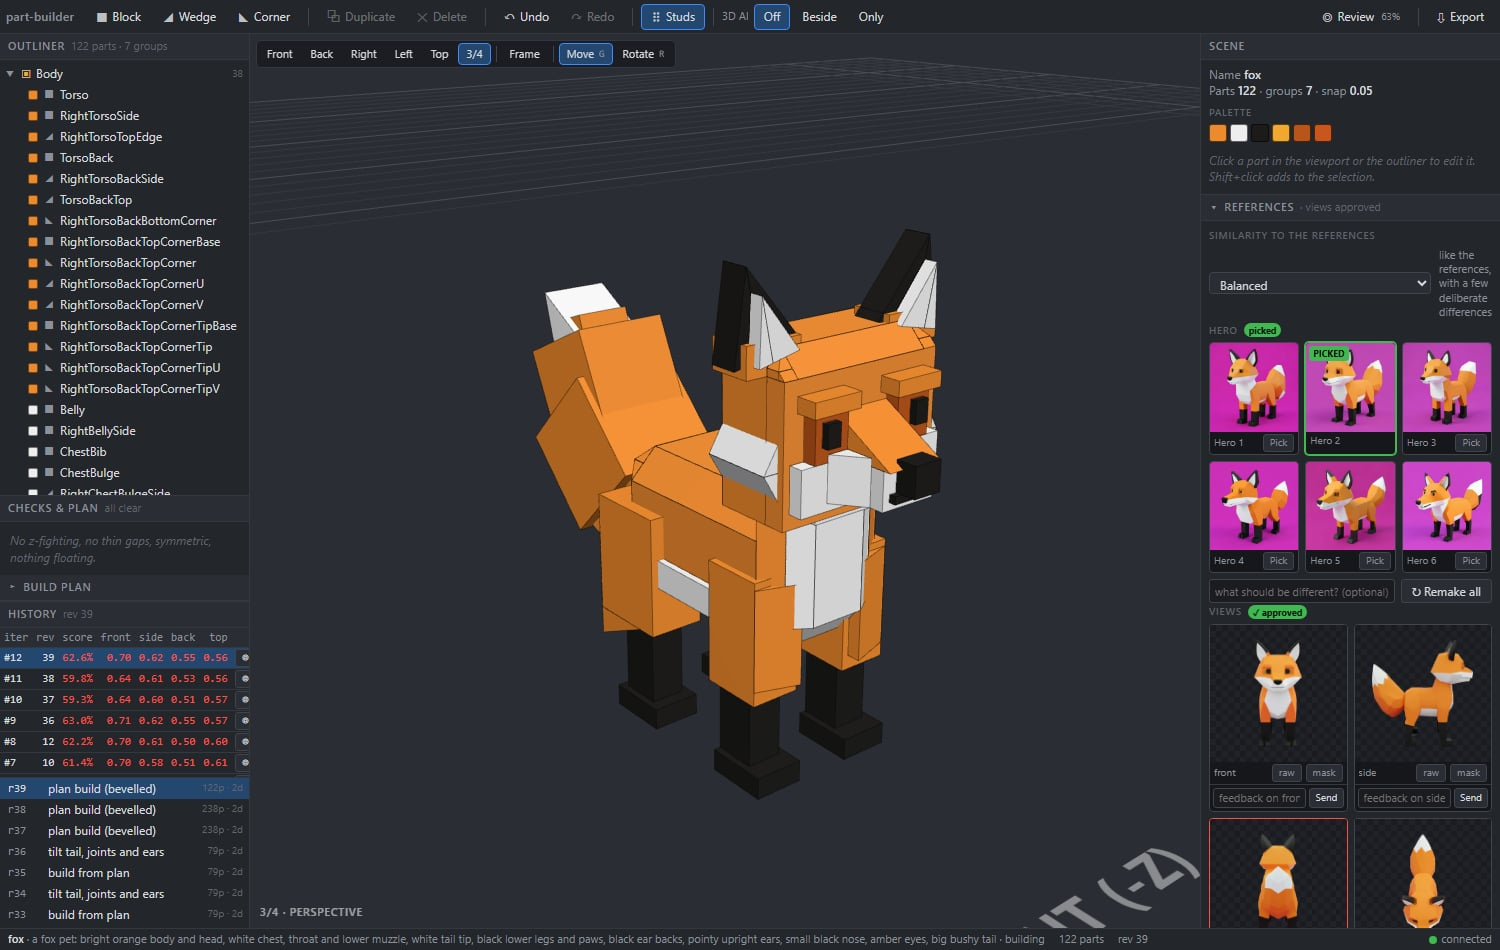
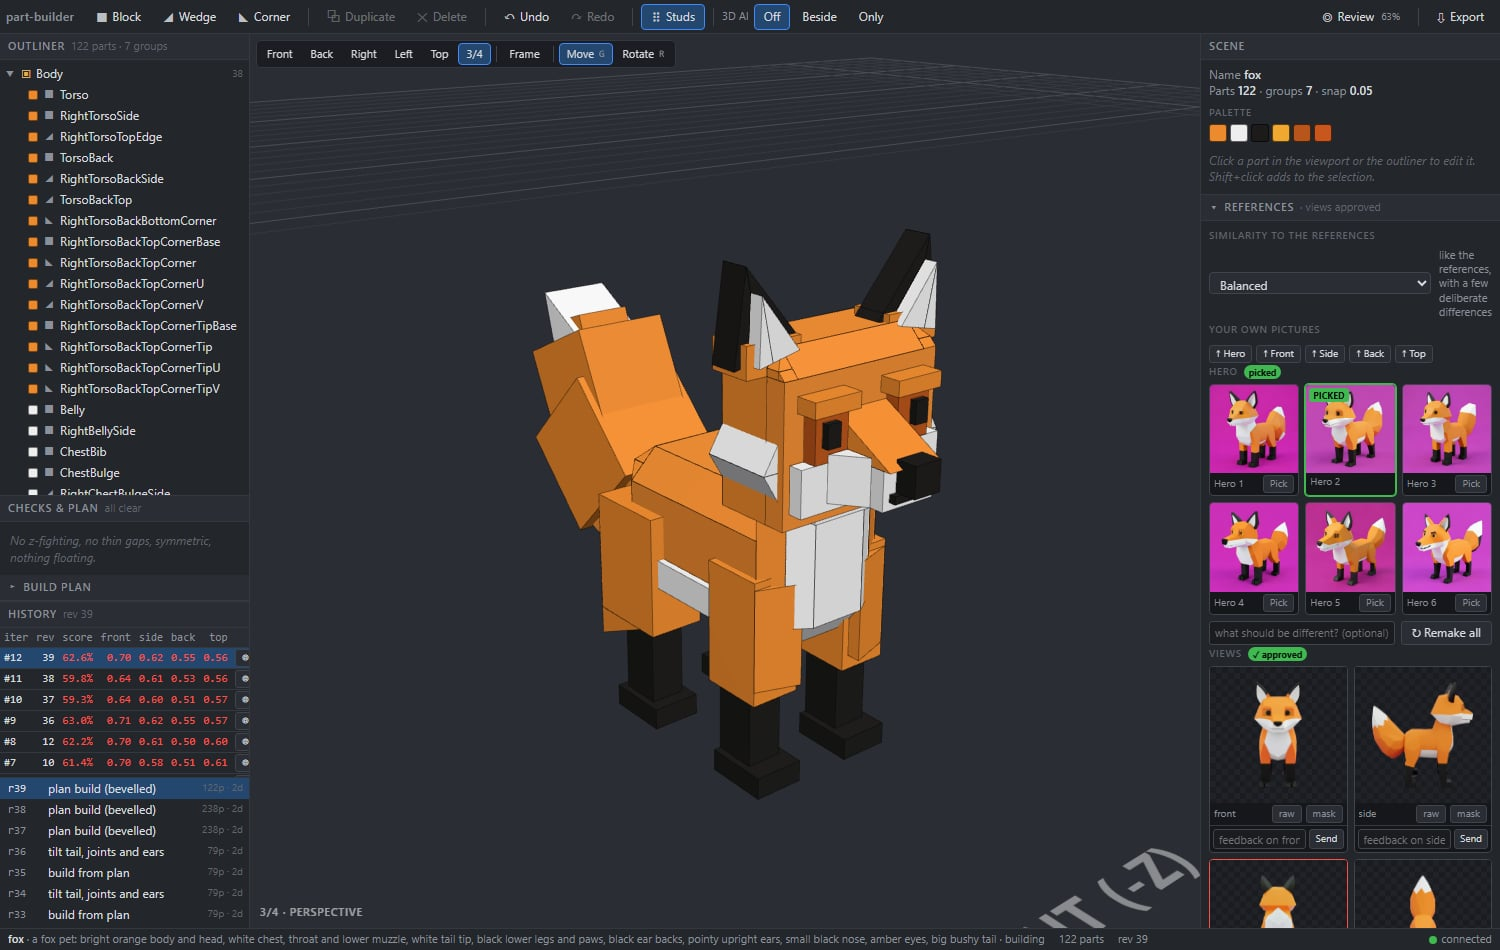
Update screenshots

Changed region(s): [[0.7973, 0.3358, 1.0, 0.9768]]

diff --git a/README.md b/README.md
@@ -12,7 +12,7 @@ corner wedges), rigged and ready for Studio.
    matches. You watch it happen in the editor.
 4. You get a rigged `.rbxmx` file, or the model is pushed straight into Roblox Studio.
 
-The editor: the model, its parts and the reference pictures.
+The editor: the model, its parts, the reference pictures and buttons to upload your own.
 ![The editor](docs/images/editor.jpg)
 
 The review screen: reference, model, overlay and line map for each view, with the score.
